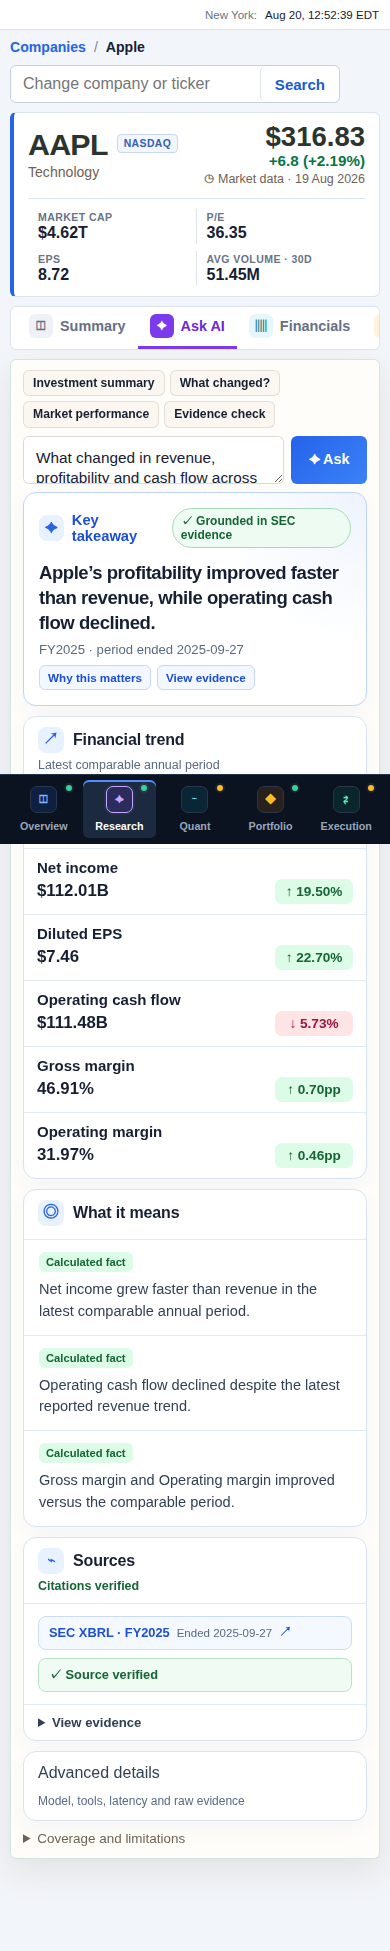
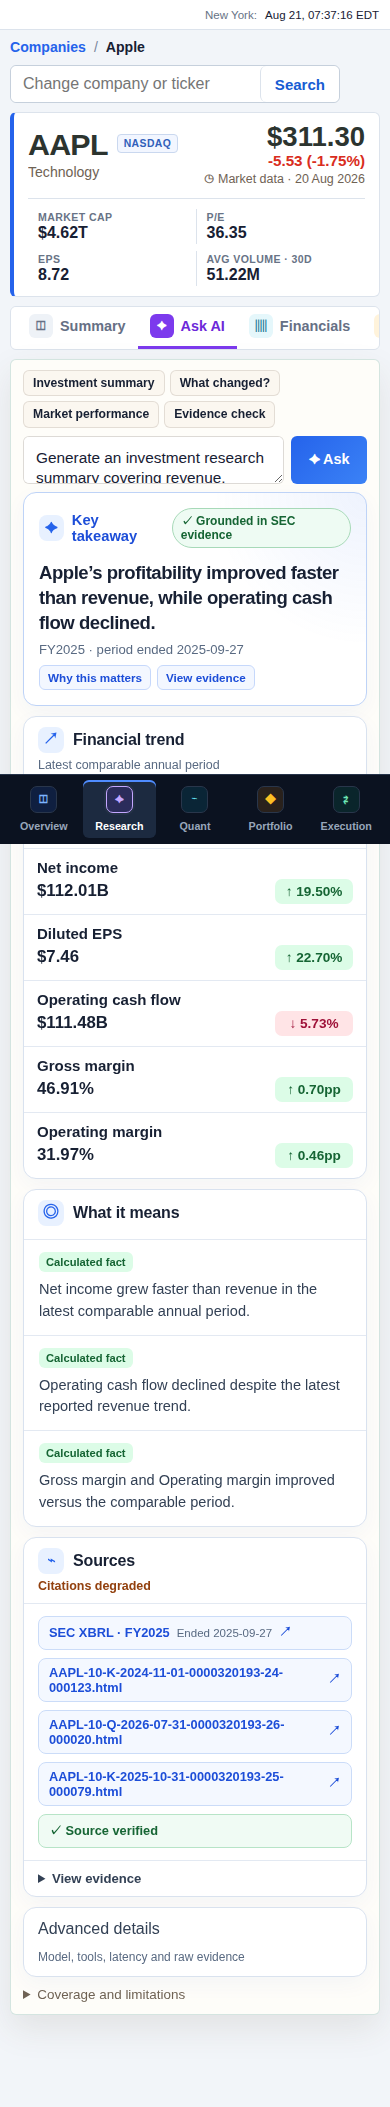
Tighten research terminal navigation

diff --git a/apps/web/app/us-terminal.css b/apps/web/app/us-terminal.css
@@ -33,7 +33,7 @@
 
 .us-terminal-shell {
   display: grid;
-  grid-template-columns: 244px minmax(0, 1fr);
+  grid-template-columns: 204px minmax(0, 1fr);
   min-height: 100vh;
 }
 
@@ -44,7 +44,7 @@
   z-index: 40;
   display: flex;
   flex-direction: column;
-  width: 244px;
+  width: 204px;
   height: 100vh;
   padding: 18px 14px 14px;
   overflow: hidden;
@@ -178,7 +178,7 @@
   position: fixed;
   top: 0;
   right: 0;
-  left: 244px;
+  left: 204px;
   z-index: 1200;
   display: block;
   width: auto;
@@ -261,9 +261,16 @@
 .us-terminal-sidebar-footer {
   display: grid;
   gap: 12px;
+  min-width: 0;
   margin-top: auto;
   padding: 14px 6px 2px;
   border-top: 1px solid #1d293b;
+}
+
+.us-terminal-sidebar-footer > * {
+  box-sizing: border-box;
+  width: 100%;
+  min-width: 0;
 }
 
 .us-terminal-sidebar .market-switcher {
@@ -1286,18 +1293,18 @@
 }
 
 .us-terminal-sidebar-clock {
-  padding: 9px 10px;
+  padding: 8px 7px;
   border: 1px solid #28364b;
   border-radius: 7px;
   color: #8fa1b8;
   background: #111b2b;
-  font-size: 0.76rem;
+  font-size: 0.68rem;
 }
 
 .us-terminal-sidebar-clock .shell-time {
   display: grid;
   grid-template-columns: auto 1fr;
-  gap: 7px;
+  gap: 4px;
   align-items: center;
 }
 
@@ -1674,15 +1681,15 @@
 
 @media (max-width: 1050px) {
   .us-terminal-shell {
-    grid-template-columns: 210px minmax(0, 1fr);
+    grid-template-columns: 184px minmax(0, 1fr);
   }
 
   .us-terminal-sidebar {
-    width: 210px;
+    width: 184px;
   }
 
   .us-terminal-sidebar .navigation-feedback {
-    left: 210px;
+    left: 184px;
   }
 
   .us-terminal-heading p {
@@ -1812,20 +1819,6 @@
   }
 }
 
-.us-terminal-sidebar .nav-capability-dot {
-  width: 7px;
-  height: 7px;
-  margin-left: auto;
-  border-radius: 999px;
-  background: #8090a7;
-  box-shadow: 0 0 0 2px rgb(128 144 167 / 12%);
-}
-
-.us-terminal-sidebar .nav-capability-dot.status-live { background: #34d399; }
-.us-terminal-sidebar .nav-capability-dot.status-in_validation { background: #fbbf24; }
-.us-terminal-sidebar .nav-capability-dot.status-planned { background: #8290a7; }
-.us-terminal-sidebar .nav-capability-dot.status-degraded { background: #fb7185; }
-
 .product-stage-heading {
   display: flex;
   align-items: center;
@@ -1866,7 +1859,6 @@
 .cn-document-list a span { color: var(--muted); font-size: .82rem; }
 
 @media (max-width: 720px) {
-  .us-terminal-sidebar .nav-capability-dot { position: absolute; top: 5px; right: 9px; width: 6px; height: 6px; }
   .product-stage-heading { align-items: flex-start; }
   .product-stage-heading p { font-size: .88rem; }
   .stage-icon { display: none; }

diff --git a/apps/web/components/shell.tsx b/apps/web/components/shell.tsx
@@ -7,7 +7,6 @@ import { NavTabs } from "@/components/nav-tabs";
 import { ShanghaiTime } from "@/components/shanghai-time";
 import { ThemeToggle } from "@/components/theme-toggle";
 import { MarketSwitcher } from "@/components/market-switcher";
-import { getMarketCapabilities, type MarketStage } from "@/lib/api";
 import { BrandMark } from "@/components/brand-mark";
 
 export async function Shell({
@@ -32,24 +31,22 @@ export async function Shell({
   compact?: boolean;
 }) {
   const copy = getMessages(locale);
-  const capabilities = await getMarketCapabilities(market).catch(() => null);
   void title;
   void subtitle;
   void tone;
   void compact;
-  const navItem = (href: Route, label: string, icon?: string, stage?: MarketStage) => ({
+  const navItem = (href: Route, label: string, icon?: string) => ({
     href,
     label,
-    icon,
-    status: stage ? capabilities?.by_stage?.[stage]?.status : undefined
+    icon
   });
   const root = market === "US" ? "/us" : "/cn";
   const businessNavItems: Array<{ href: Route; label: string; icon?: string }> = [
-    navItem(`${root}/overview` as Route, "Overview", "◫", "overview"),
-    navItem(`${root}/research` as Route, "Research", "✦", "research"),
-    navItem(`${root}/quant` as Route, "Quant", "⌁", "quant"),
-    navItem(`${root}/portfolio` as Route, "Portfolio", "◆", "portfolio"),
-    navItem(`${root}/execution` as Route, "Execution", "⇄", "execution")
+    navItem(`${root}/overview` as Route, "Overview", "◫"),
+    navItem(`${root}/research` as Route, "Research", "✦"),
+    navItem(`${root}/quant` as Route, "Quant", "⌁"),
+    navItem(`${root}/portfolio` as Route, "Portfolio", "◆"),
+    navItem(`${root}/execution` as Route, "Execution", "⇄")
   ];
   const navItems = role === "admin"
     ? [...businessNavItems, navItem("/admin", copy.shell.nav.admin, "⚙")]

diff --git a/apps/web/components/nav-tabs.tsx b/apps/web/components/nav-tabs.tsx
@@ -5,7 +5,7 @@ import Link from "next/link";
 import { usePathname } from "next/navigation";
 import { MouseEvent, useEffect, useState } from "react";
 
-export function NavTabs({ items }: { items: Array<{ href: Route; label: string; icon?: string; status?: string }> }) {
+export function NavTabs({ items }: { items: Array<{ href: Route; label: string; icon?: string }> }) {
   const pathname = usePathname();
   const [pendingLabel, setPendingLabel] = useState<string | null>(null);
 
@@ -43,9 +43,6 @@ export function NavTabs({ items }: { items: Array<{ href: Route; label: string; 
           >
             {item.icon ? <span className="nav-link-icon" aria-hidden="true">{item.icon}</span> : null}
             <span className="nav-link-label">{item.label}</span>
-            {item.status ? (
-              <span className={`nav-capability-dot status-${item.status}`} title={item.status.replaceAll("_", " ")} aria-label={item.status.replaceAll("_", " ")} />
-            ) : null}
           </Link>
         );
       })}
